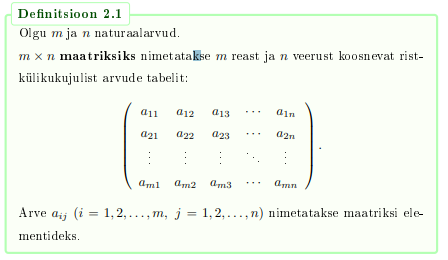
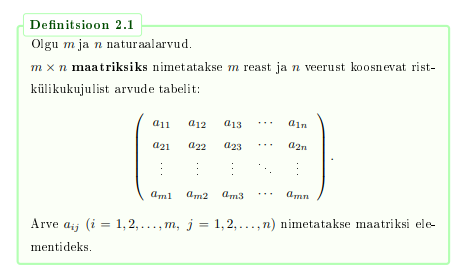
muutused

diff --git a/style.css b/style.css
@@ -79,3 +79,8 @@ table {
     padding-right: 50px;
   }
 }
+
+.Maatriksid2\.2 {
+    width: 650px;
+    margin-top: 10px;
+}
